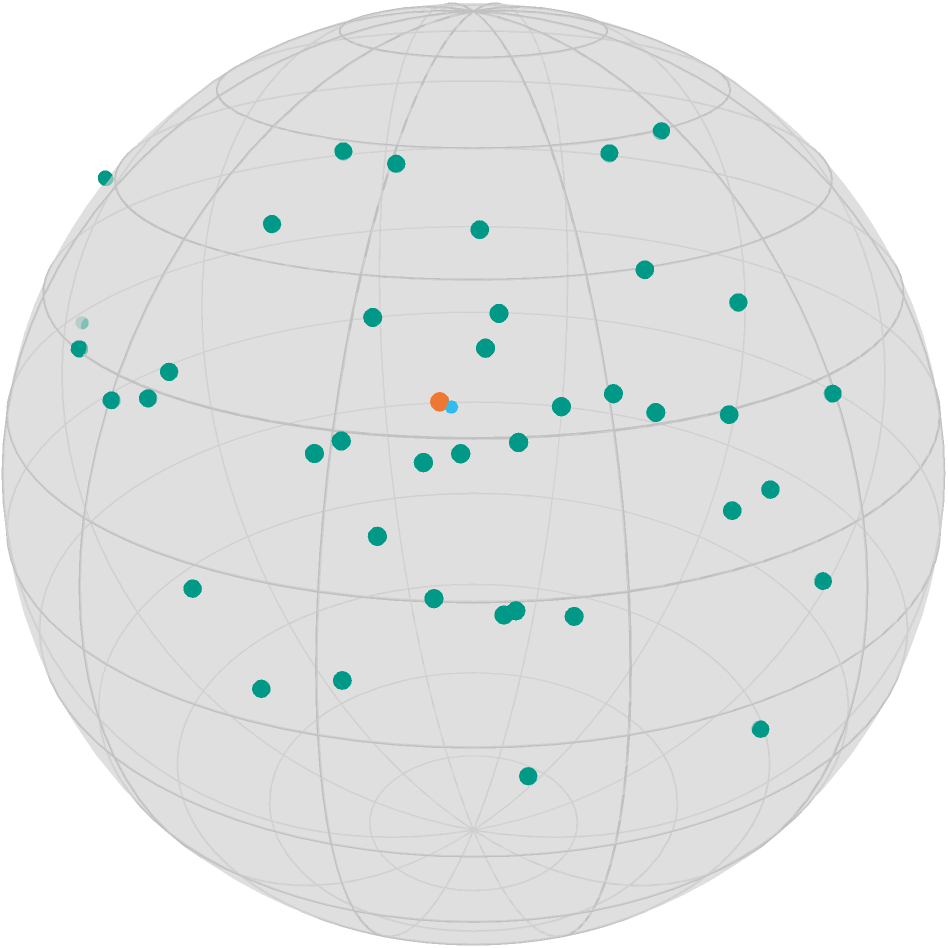
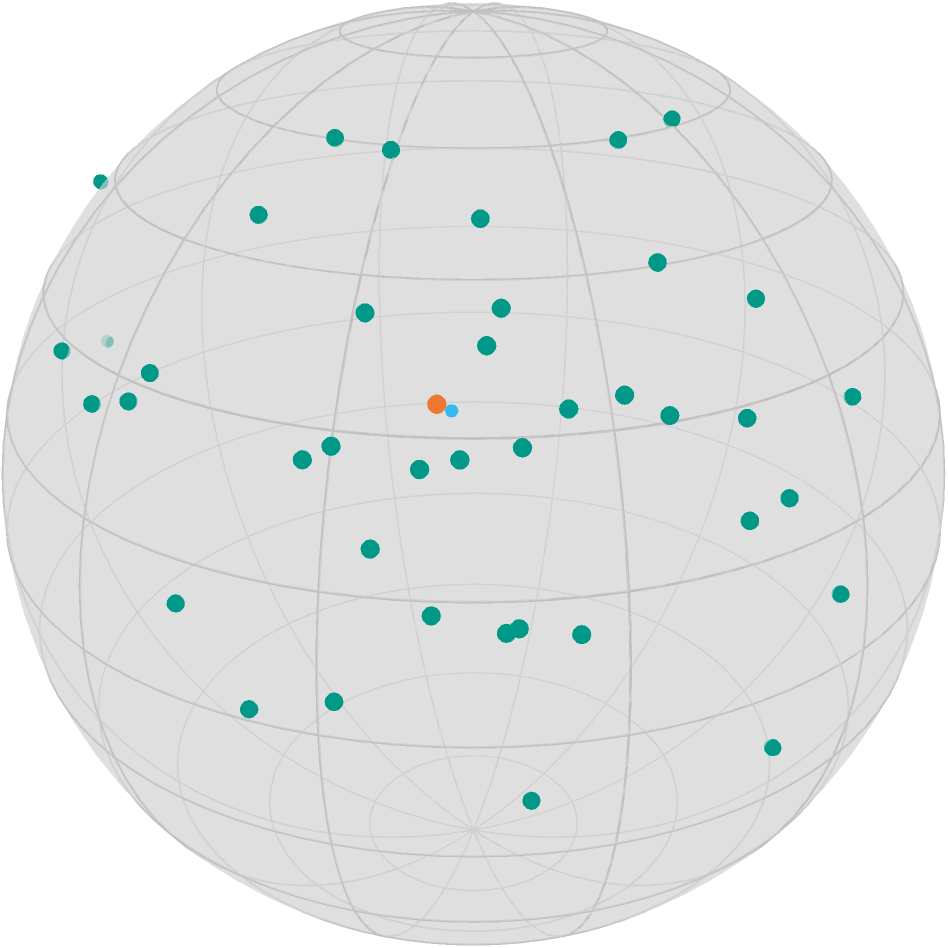
switch to a non-utf8-sigma for randn.

diff --git a/joss/paper.md b/joss/paper.md
@@ -95,7 +95,7 @@ M = Sphere(2)
 n = 40
 p = 1/sqrt(3) .* ones(3)
 B = DefaultOrthonormalBasis()
-pts = [ exp(M, p, get_vector(M, p, π/8*randn(2), B)) for _ in 1:n ]
+pts = [ exp(M, p, get_vector(M, p, 0.425*randn(2), B)) for _ in 1:n ]
 
 F(M, y) = sum(1/(2*n) * distance.(Ref(M), pts, Ref(y)).^2)
 gradF(M, y) = sum(1/n * grad_distance.(Ref(M), pts, Ref(y)))
@@ -135,17 +135,18 @@ iterates = get_record(o, :Iteration, :x) # iterates recorded per iteration
 The debug output of this example looks as follows:
 
 ```julia-repl
-Initial |  | F(x): 0.17660669661896283
-# 1 | Last Change: 0.20617740074094507 | F(x): 0.15428987096503957
-# 2 | Last Change: 0.01172204420526484 | F(x): 0.15421595490561446
-# 3 | Last Change: 0.000916321286757487 | F(x): 0.1542155005195215
-# 4 | Last Change: 7.572016375123184e-5 | F(x): 0.15421549741437077
-# 5 | Last Change: 6.2990153630067366e-6 | F(x): 0.15421549739288035
-# 6 | Last Change: 5.247240323322776e-7 | F(x): 0.1542154973927315
-# 7 | Last Change: 4.712160915387242e-8 | F(x): 0.1542154973927305
-# 8 | Last Change: 2.580956827951785e-8 | F(x): 0.15421549739273052
-The algorithm reached approximately critical point after 8 iterations;
-    the gradient norm (3.6353284139116625e-9) is less than 1.0e-8.
+Initial |  | F(x): 0.20638171781316278
+# 1 | Last Change: 0.22025631624261213 | F(x): 0.18071614247165613
+# 2 | Last Change: 0.014654955252636971 | F(x): 0.1805990319857418
+# 3 | Last Change: 0.0013696682667046617 | F(x): 0.18059800144857607
+# 4 | Last Change: 0.00013562945413135856 | F(x): 0.1805979913344784
+# 5 | Last Change: 1.3519139571830234e-5 | F(x): 0.1805979912339798
+# 6 | Last Change: 1.348534506171897e-6 | F(x): 0.18059799123297982
+# 7 | Last Change: 1.3493575361575816e-7 | F(x): 0.1805979912329699
+# 8 | Last Change: 2.580956827951785e-8 | F(x): 0.18059799123296988
+# 9 | Last Change: 2.9802322387695312e-8 | F(x): 0.18059799123296993
+The algorithm reached approximately critical point after 9 iterations;
+    the gradient norm (1.3387605239861564e-9) is less than 1.0e-8.
 ```
 
 For more details on more algorithms to compute the mean and other statistical functions on manifolds like the median
